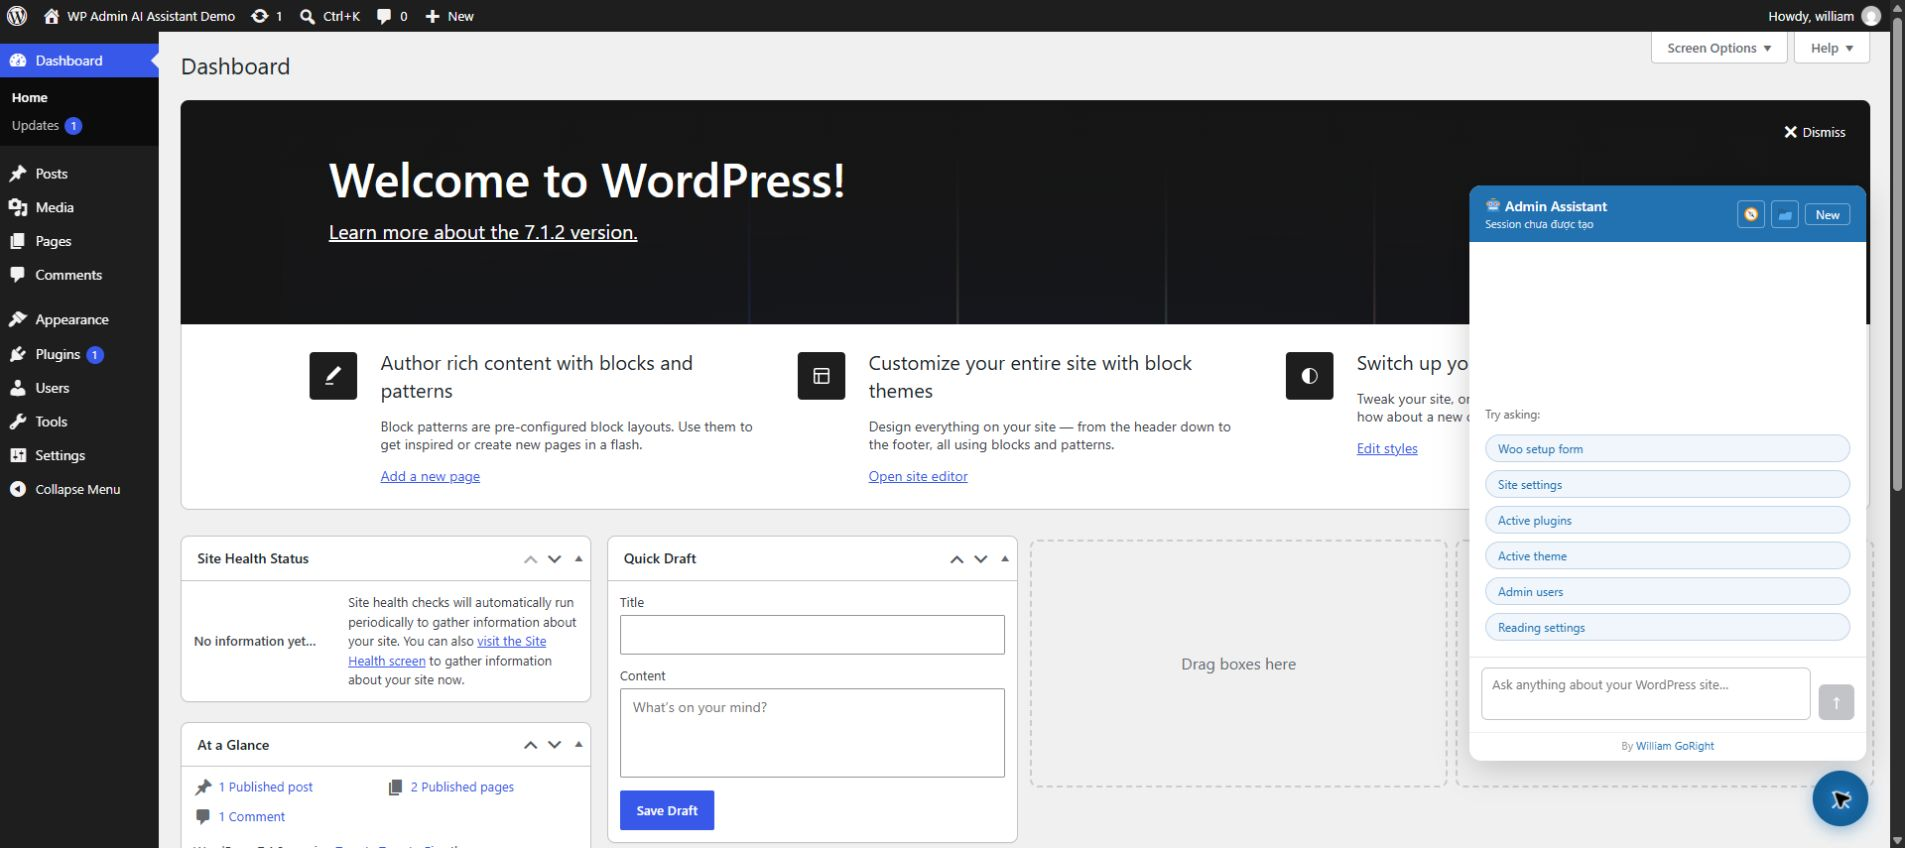
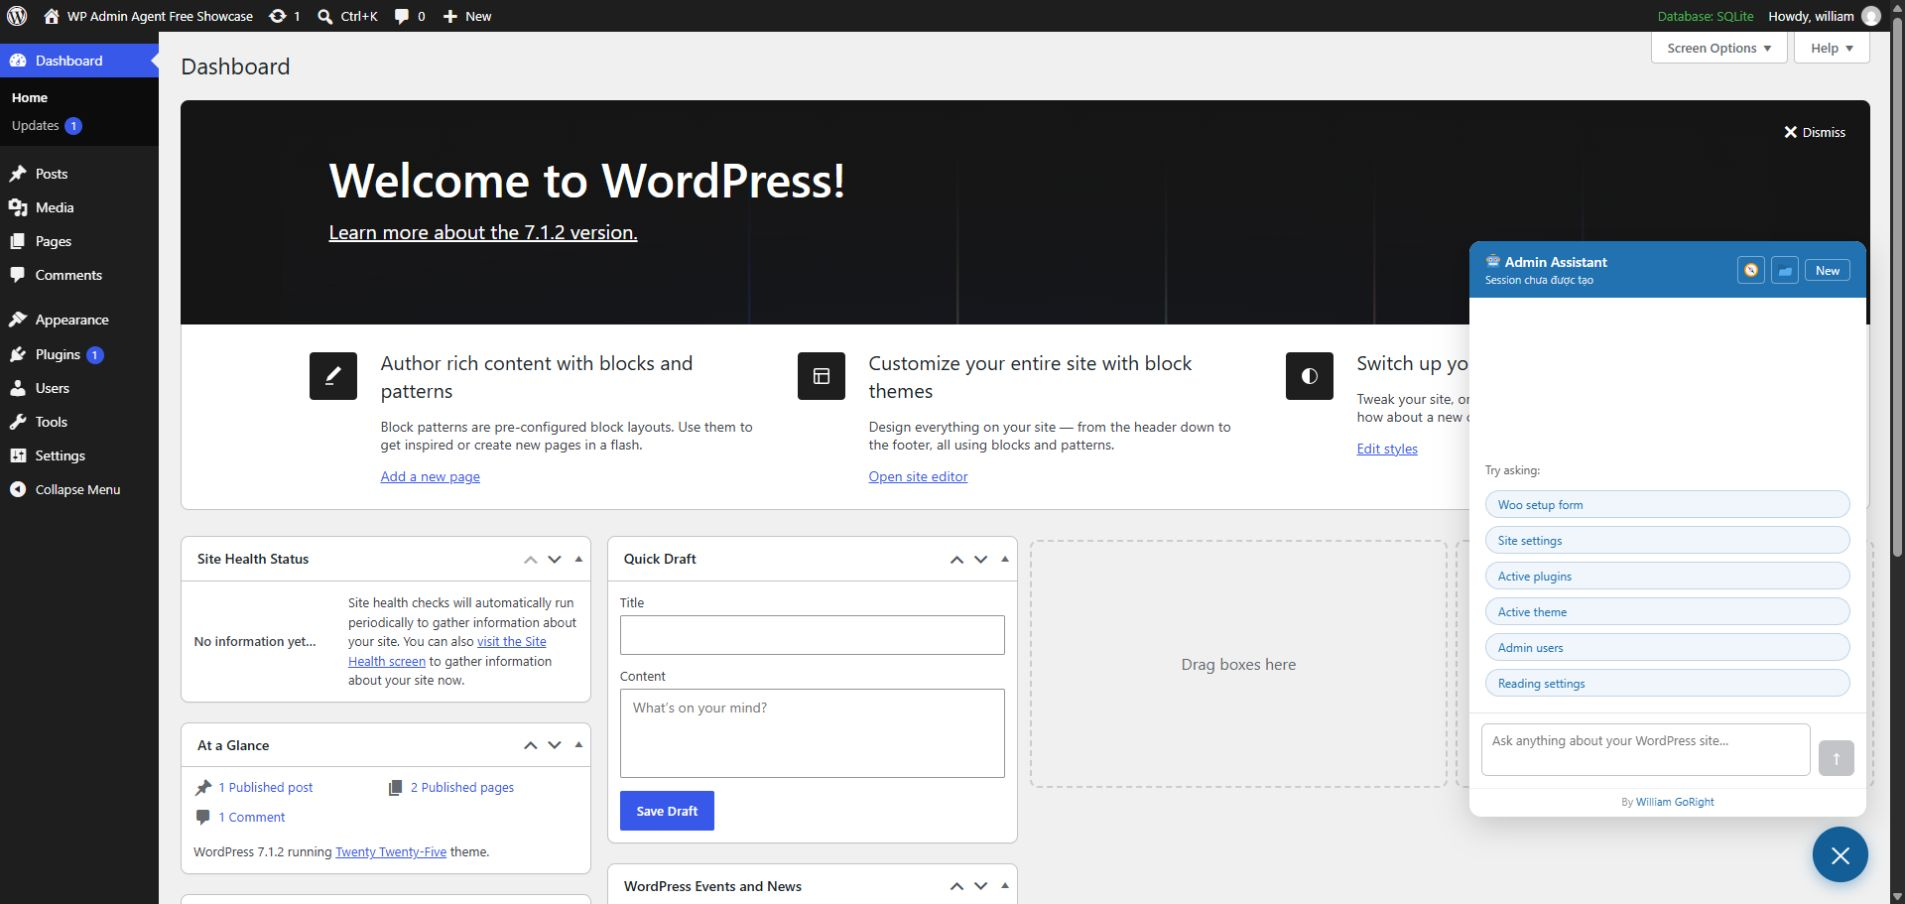
docs: publish verified Free showcase evidence

diff --git a/admin/settings-page.php b/admin/settings-page.php
@@ -80,6 +80,9 @@ $navigate_map = [
                                 <option value="anthropic" <?php selected($provider,'anthropic'); ?>>Anthropic (Claude)</option>
                                 <option value="gemini"    <?php selected($provider,'gemini'); ?>>Google Gemini</option>
                                 <option value="ollama"    <?php selected($provider,'ollama'); ?>>Ollama (Local)</option>
+                                <?php if (wp_get_environment_type() !== 'production'): ?>
+                                    <option value="fake" <?php selected($provider,'fake'); ?>>Deterministic Showcase (no external API)</option>
+                                <?php endif; ?>
                             </select>
                         </td>
                     </tr>
@@ -147,6 +150,12 @@ $navigate_map = [
                                 Docker/wp-env local: <code>http://host.docker.internal:11434</code><br>
                                 Private network / another host: <code>http://your-ollama-host:11434</code>
                             </p>
+                        </td>
+                    </tr>
+                    <tr id="row-fake" <?php echo $provider !== 'fake' ? 'style="display:none"' : ''; ?>>
+                        <th>Showcase mode</th>
+                        <td>
+                            <p class="description">Uses bundled deterministic fixtures. No prompt, credential, or site data is sent to an external AI provider.</p>
                         </td>
                     </tr>
                     <tr>
@@ -393,7 +402,7 @@ let currentModel       = <?php echo wp_json_encode($model); ?>;
 
 function waaOnProviderChange(p) {
     currentProvider = p;
-    ['anthropic','gemini','ollama'].forEach(id => {
+    ['anthropic','gemini','ollama','fake'].forEach(id => {
         const row = document.getElementById('row-' + id);
         if (row) {
             row.style.display = (p === id) ? '' : 'none';

diff --git a/includes/class-pricing.php b/includes/class-pricing.php
@@ -36,6 +36,9 @@ class WAA_Pricing {
             'mistral'         => ['label' => 'Mistral 7B',         'ctx' =>  32000, 'in' => 0, 'out' => 0],
             'phi4'            => ['label' => 'Phi-4 14B',          'ctx' =>  16000, 'in' => 0, 'out' => 0],
         ],
+        'fake' => [
+            'runtime-v1' => ['label' => 'Deterministic Showcase (no external API)', 'ctx' => 32768, 'in' => 0, 'out' => 0],
+        ],
     ];
 
     public static function get_models(string $provider): array {

diff --git a/includes/class-provider-fake.php b/includes/class-provider-fake.php
@@ -44,7 +44,7 @@ INST;
         $slug = sanitize_file_name($this->fixture);
         $path = apply_filters(
             'waa_fake_provider_fixture_path',
-            WAA_PLUGIN_DIR . 'tests/php/fixtures/fake-provider/' . $slug . '.json',
+            WAA_PLUGIN_DIR . 'includes/fixtures/fake-provider/' . $slug . '.json',
             $slug
         );
 

diff --git a/README.md b/README.md
@@ -18,6 +18,10 @@ This repository contains the GPL-licensed Free edition. A separate Pro add-on pr
 
 ## Product tour
 
+Try the public, fake-data showcase at [wp-admin-agent-showcase-cd6tjmxetq-as.a.run.app](https://wp-admin-agent-showcase-cd6tjmxetq-as.a.run.app/). The showcase does not publish administrator credentials or contain an AI-provider key.
+
+![Public Cloud Run showcase](docs/images/00-cloud-run-showcase.png)
+
 ![Assistant chat panel](docs/images/02-ai-assistant-chat.png)
 
 ![Tool registry](docs/images/04-tool-registry.png)

diff --git a/docs/index.md b/docs/index.md
@@ -2,6 +2,8 @@
 
 This documentation covers installation, day-to-day use, architecture, security, development, and the disposable Google Cloud demo.
 
+Public showcase: [WP Admin Agent Free on Cloud Run](https://wp-admin-agent-showcase-cd6tjmxetq-as.a.run.app/). It uses fake data; administrator access remains private.
+
 ## Start here
 
 - [Getting Started](getting-started.md) — install, configure a provider, and complete a first safe workflow.
